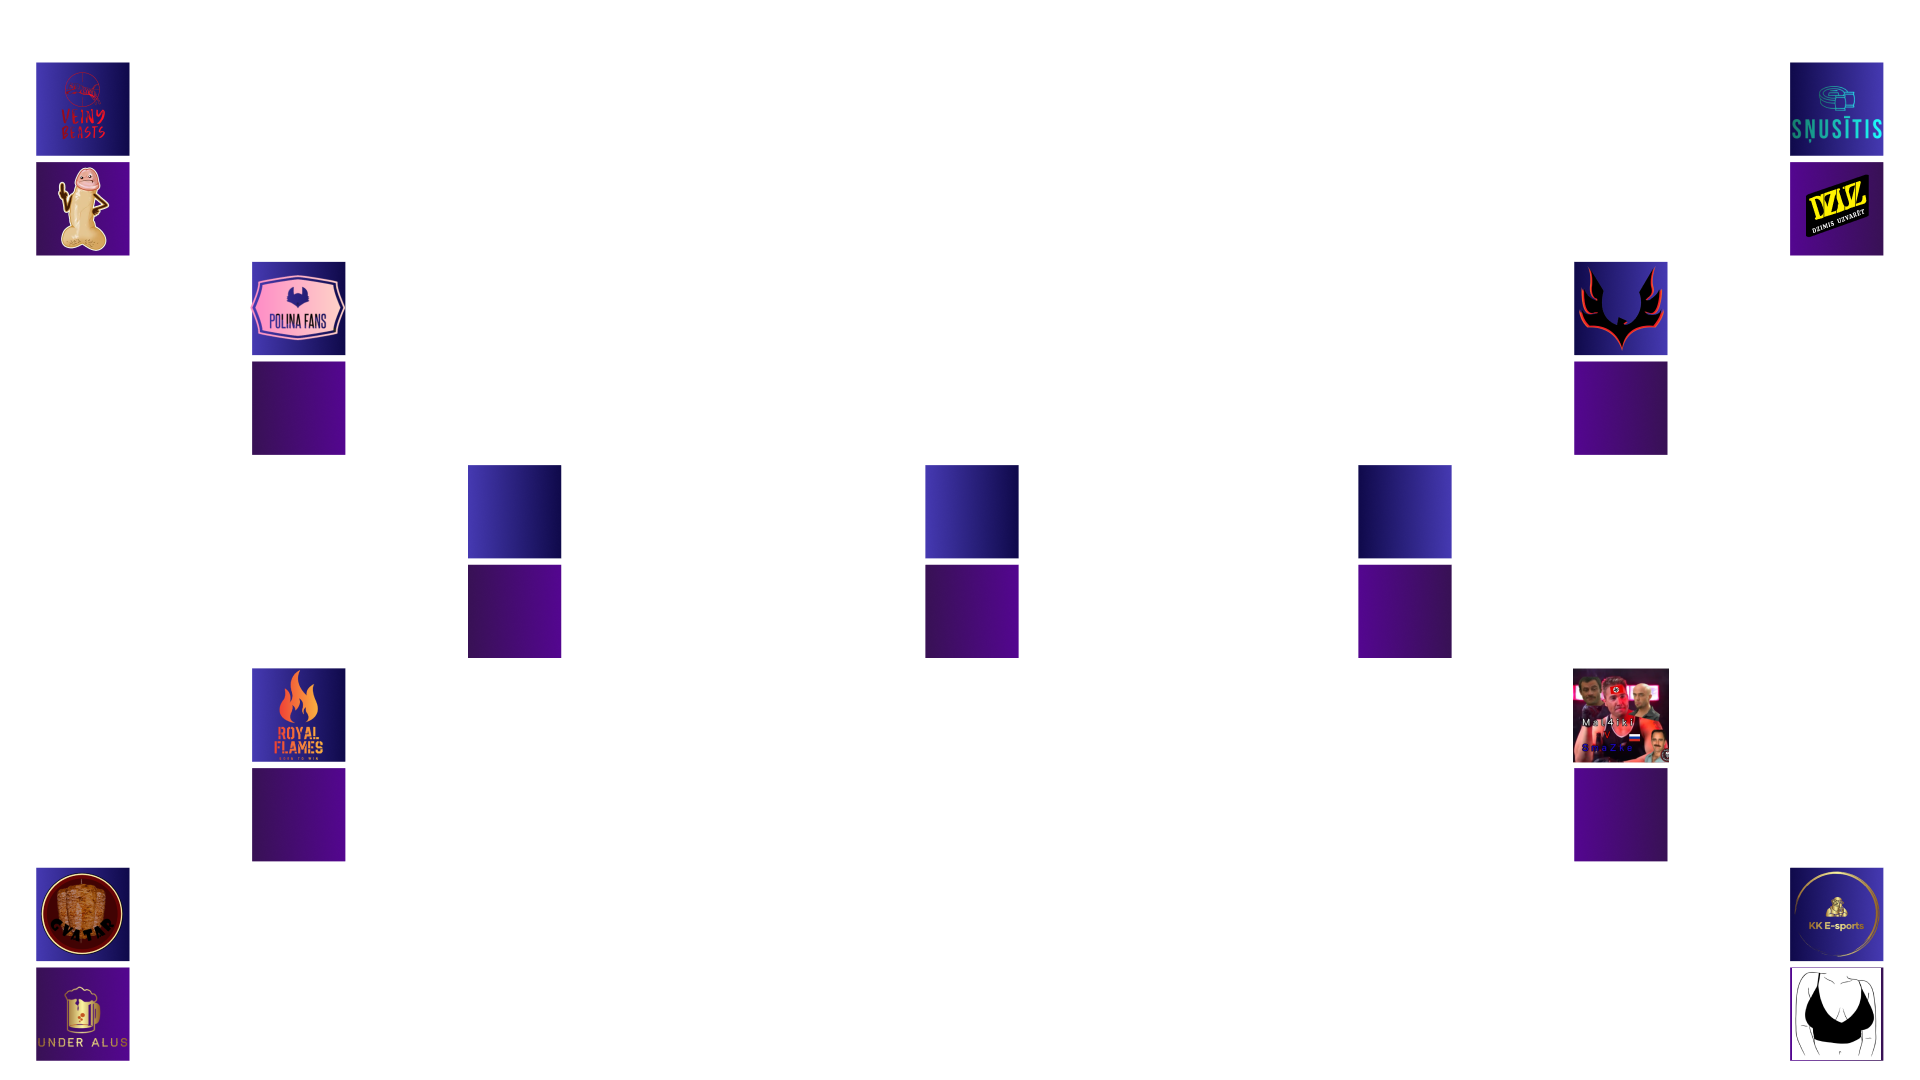
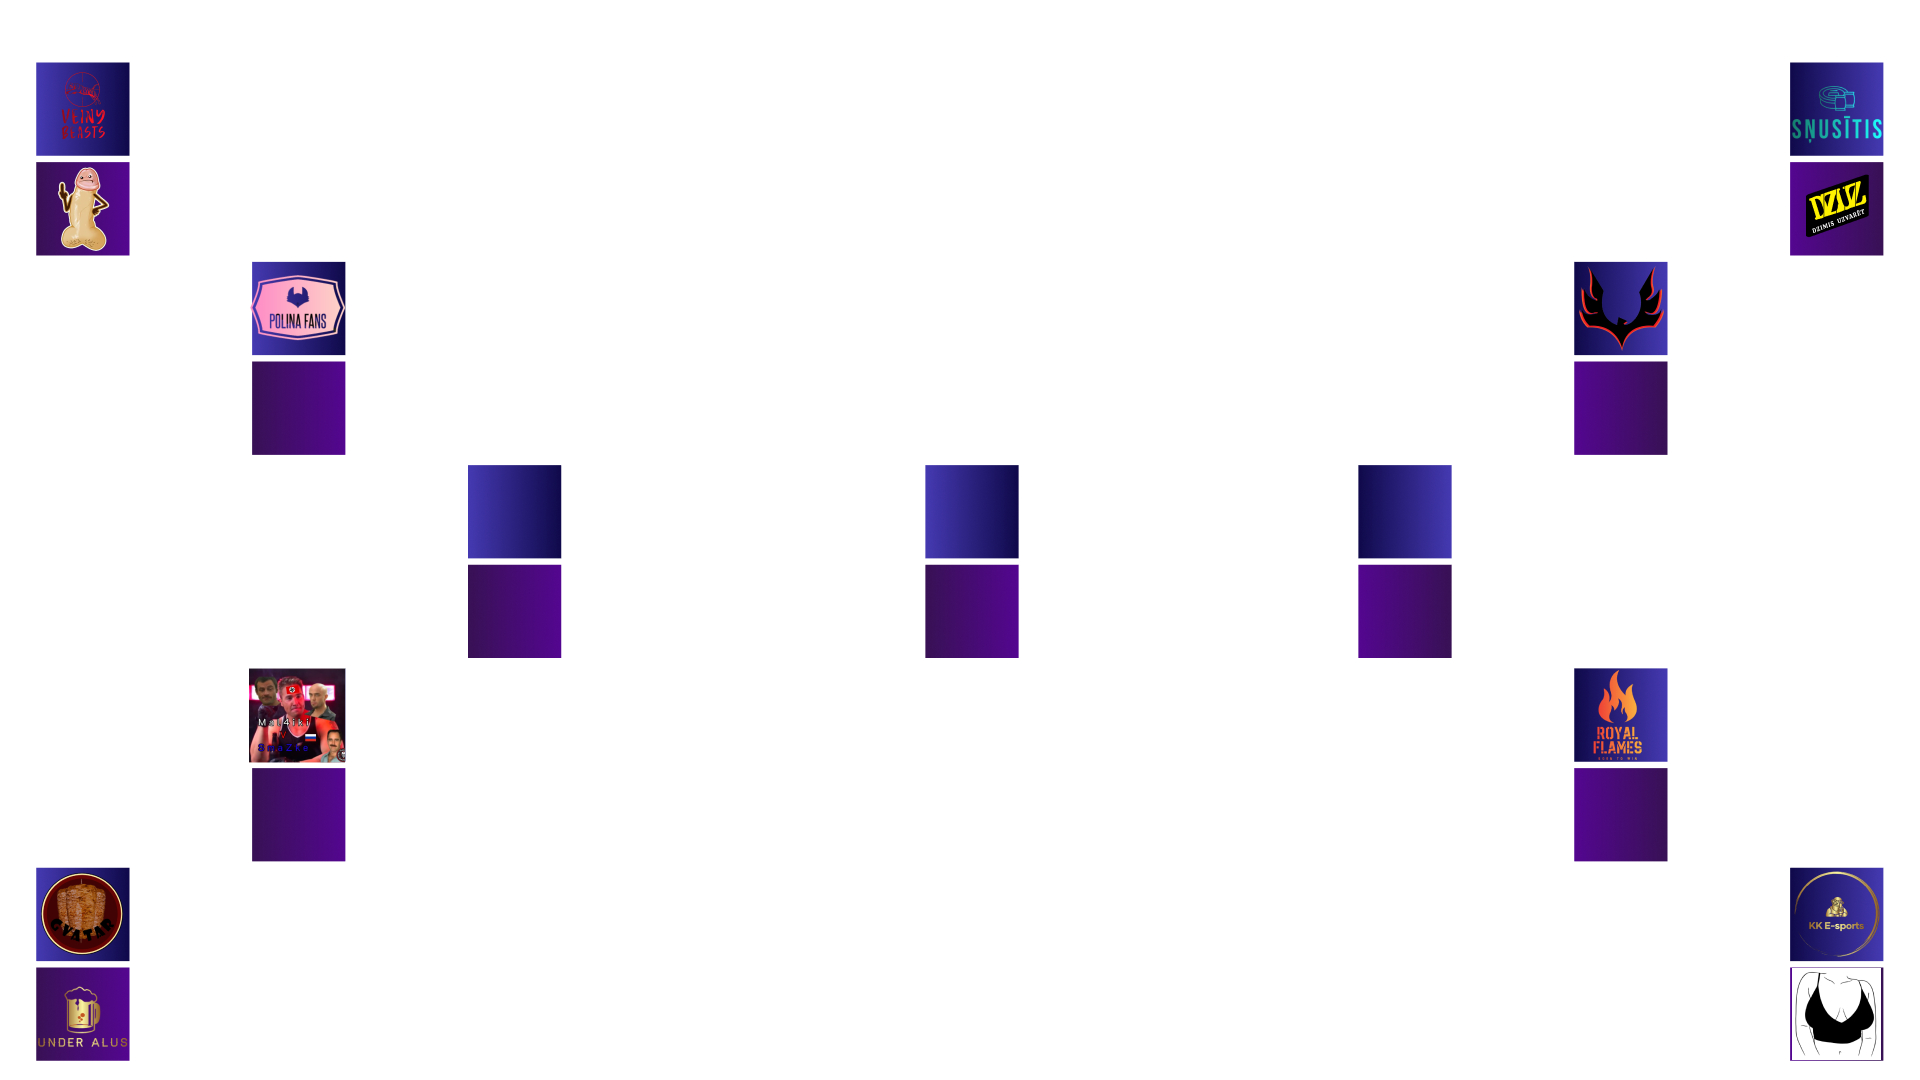
play off and time match update

Changed region(s): [[0.125, 0.6111, 0.1875, 0.7333], [0.8125, 0.6111, 0.875, 0.7028]]

diff --git a/scripts/matches-info.js b/scripts/matches-info.js
@@ -338,12 +338,12 @@ const gameinfo =[{
 },{
   team1:'',
   team2:'',
-  team1_image:'images/beasts.png',
-  team2_image:'images/ЧлEn0s0s1Ki228.png',
+  team1_image:'images/snusitis.png',
+  team2_image:'images/dzuz.png',
 
   group:'Play-in',
   score:'VS',
-  time:'20:00',
+  time:'19:00',
   tech_loss:"",
   data:'20.06'
 },{
@@ -354,18 +354,7 @@ const gameinfo =[{
 
   group:'Play-in',
   score:'VS',
-  time:'21:00',
-  tech_loss:"",
-  data:'20.06'
-},{
-  team1:'',
-  team2:'',
-  team1_image:'images/snusitis.png',
-  team2_image:'images/dzuz.png',
-
-  group:'Play-in',
-  score:'VS',
-  time:'22:00',
+  time:'20:00',
   tech_loss:"",
   data:'20.06'
 },{
@@ -376,9 +365,20 @@ const gameinfo =[{
 
   group:'Play-in',
   score:'VS',
-  time:'23:00',
+  time:'21:00',
   tech_loss:"",
   data:'20.06'
+},{
+  team1:'',
+  team2:'',
+  team1_image:'images/beasts.png',
+  team2_image:'images/ЧлEn0s0s1Ki228.png',
+
+  group:'Play-in',
+  score:'VS',
+  time:'20:00',
+  tech_loss:"",
+  data:'21.06'
 },{
   team1:'',
   team2:'',
@@ -394,7 +394,7 @@ const gameinfo =[{
   team1:'',
   team2:'',
   team1_image:'images/gvat-alus.png',
-  team2_image:'images/new-royalflames.png',
+  team2_image:'images/mvs-off.jpg',
 
   group:'Play-off',
   score:'VS',
@@ -415,7 +415,7 @@ const gameinfo =[{
 },{
   team1:'',
   team2:'',
-  team1_image:'images/mvs-off.jpg',
+  team1_image:'images/new-royalflames.png',
   team2_image:'images/kk-jora.png',
 
   group:'Play-off',
